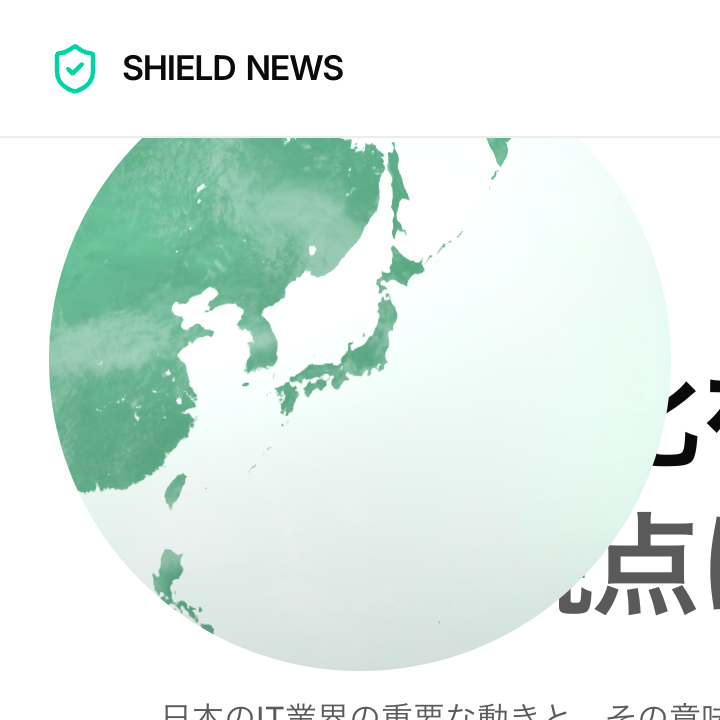
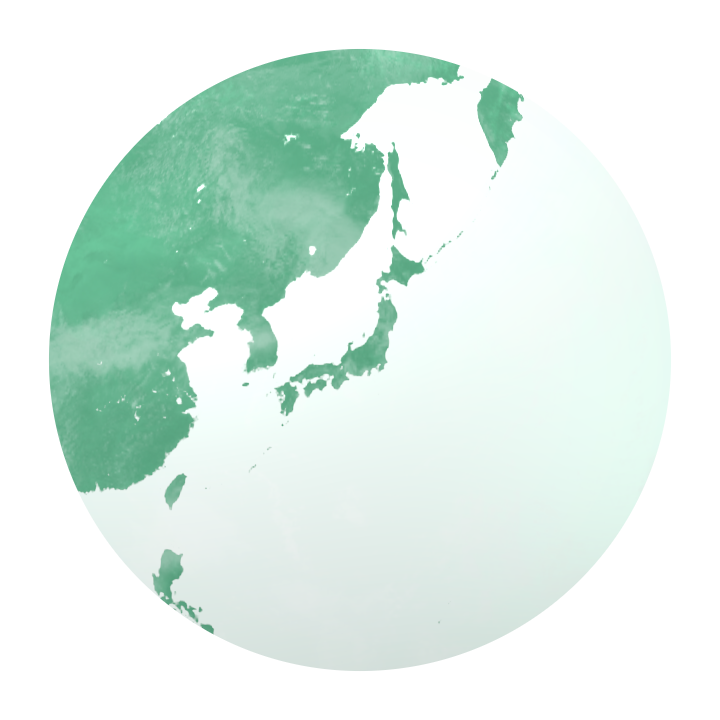
Remove page content from the globe fallback image

diff --git a/tests/japan-globe.test.tsx b/tests/japan-globe.test.tsx
@@ -107,7 +107,7 @@ it("renders once with reduced motion and falls back without WebGL2", async () =>
   vi.stubGlobal("WebGL2RenderingContext", undefined);
   const fallback = await mount();
   expect(fallback.container.firstChild).toHaveAttribute("data-state", "fallback");
-  expect(fallback.container.querySelector("img")).toHaveAttribute("src", "/illustrations/globe-japan-soft.png");
+  expect(fallback.container.querySelector("img")).toHaveAttribute("src", "/illustrations/globe-japan-soft.png?v=2");
   expect(createSoftGlobe).not.toHaveBeenCalled();
 });
 

diff --git a/src/components/japan-globe.tsx b/src/components/japan-globe.tsx
@@ -110,7 +110,7 @@ export function JapanGlobe() {
 
   return <div className="japan-globe" ref={rootRef} aria-hidden="true" data-state="fallback">
     {/* eslint-disable-next-line @next/next/no-img-element */}
-    <img className="globe-fallback" src="/illustrations/globe-japan-soft.png" alt="" width="720" height="720" />
+    <img className="globe-fallback" src="/illustrations/globe-japan-soft.png?v=2" alt="" width="720" height="720" />
     <div className="globe-canvas" ref={hostRef} />
     <div className="globe-atmosphere" />
   </div>;

diff --git a/DESIGN.md b/DESIGN.md
@@ -12,4 +12,5 @@ Reference: [Mintlify design-md](https://getdesign.md/mintlify/design-md), from [
 - React Bits BlurText is adapted to CSS keyframes for a one-time title reveal; Aceternity Spotlight supplies the decorative SVG; Uiverse's arrow capsule animates the news-feed action. See THIRD-PARTY.md for sources and licenses.
 - The homepage's right-hand globe uses a soft Three.js sphere: continuous mint land, white oceans, terrain normals, an independent transparent cloud shell and a restrained atmospheric rim. No markers or labels. A one-second turn and simultaneous zoom move from a complete globe into a circular Japan close-up (36°N, 138°E), once per session. Land stays fixed after arrival; only clouds and the glow drift subtly. The smaller mobile globe remains beside the title, with the edition date below.
 - Load the 3D engine in a separate chunk and self-host all textures. Start the one-second animation once textures and shaders are ready. Clouds render at roughly 12 fps after settling; pause offscreen/in hidden tabs. Reduced-motion mode renders Japan immediately and stops the render loop. A matching static image covers missing WebGL2, failed texture loads and disabled JavaScript.
+- Export the static fallback with only the globe in the document; headers, text and overlays must be absent. Check transparency outside the globe and land visibility at the top before shipping. Version its URL when replacing a faulty export so cached copies are refreshed.
 - Preserve news data, source attribution, timestamps, sample labels, search, category links, archives and language selection.
